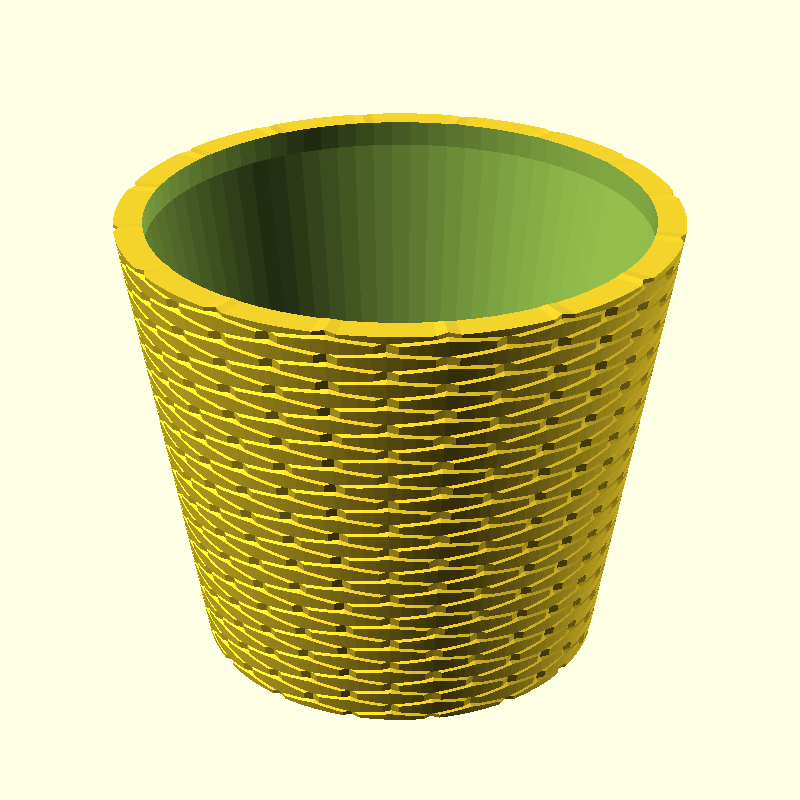
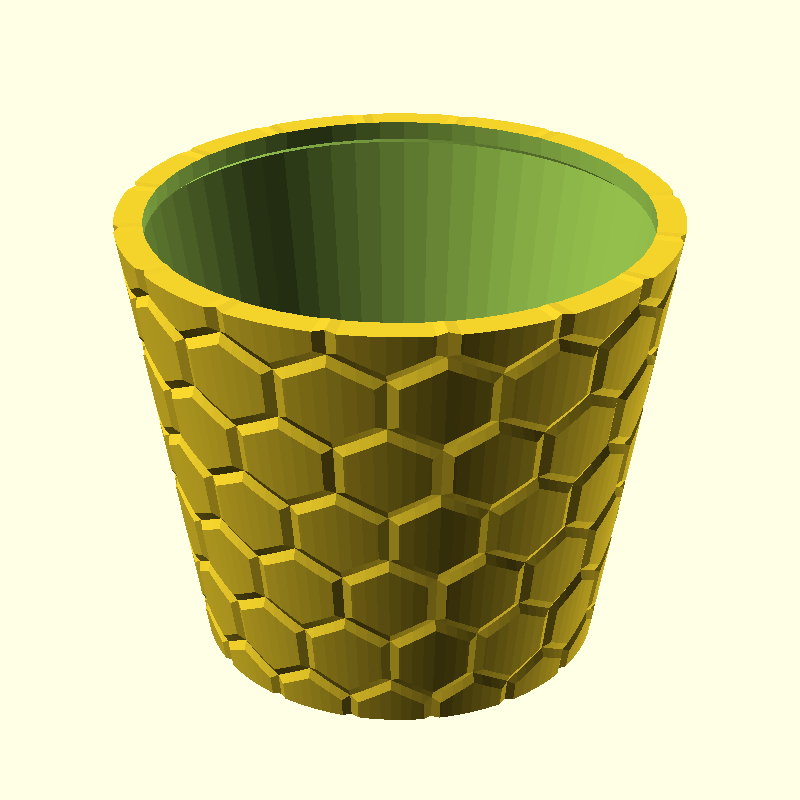
Regenerate gallery and update docs for the square-tile aspect fix
Re-renders every gallery image at the shipped smoothness=60 default
(render.sh's CU_FN was still hardcoded to the old 80) and with the new
geometry-derived vertical tile-repeat count. Rewrites the aspect-ratio
disclosures in README.md and docs/gallery.md to state the distortion is
fixed (residual ~0.87x-1.17x at the pot's actual top/bottom radii, down
from ~2.8-3.75x), measured directly from _square_tile_vertical_reps() at
shipped defaults. Removes the two now-fixed TODO.md backlog items.

Claude-Session: https://claude.ai/code/session_016CFVd1m5nG6TufCqmWBAbh

diff --git a/docs/gallery.md b/docs/gallery.md
@@ -35,15 +35,19 @@ See [README.md](../README.md) for what each parameter means.
 
 **These are square-tile close-ups, not pictures of a pot.** Each one is a
 `decorated_solid()` cylinder whose height equals its own circumference, so
-`tex_reps = [n, n]` lays down **square** tiles and every pattern is shown at its
-designed proportions. On the actual planter the same tiles come out
-**roughly 2.8–3.75× wider than tall** (it varies along the wall's taper, see
-below) — see [Full-Pot Examples](#full-pot-examples) below for what that does
-to them, and why these close-ups lead the page instead.
+the vertical repeat count `_square_tile_vertical_reps()` derives comes out
+equal to the horizontal one and every pattern is shown at its designed
+proportions. On the actual planter, tiles are only *exactly* square at the
+wall's mean radius — the wall is a cone, and the vertical repeat count is
+fixed for the whole wall while BOSL2 scales each texture strip to the local
+radius as it revolves. At shipped defaults this leaves a small residual: tiles
+run **roughly 0.87× wide-to-tall at the bottom rim to 1.17× at the top rim**
+— see [Full-Pot Examples](#full-pot-examples) below for what that residual
+taper looks like, and why these close-ups (free of it) lead the page instead.
 
 Settings shared by every image in this section: `r1 = r2 = 90mm`,
 `height = 565.5mm` (= 2πr), `pattern_repeat = 32` (so tiles are ~17.7mm square),
-`pattern_depth = 1.5` and `smoothness = 80` (both the shipped defaults when these images were rendered; `smoothness`'s default has since been lowered to 60, see README's CGAL note),
+`pattern_depth = 1.5` and `smoothness = 60` (the shipped defaults),
 `pattern_orientation = "vertical"`. Uniform across all of them, so the images
 are comparable with each other.
 
@@ -70,7 +74,7 @@ there is only one image.
 |---|
 | ![none](images/pattern-none-raised.png) |
 
-The faint vertical banding is the `smoothness = 80` facets of the cylinder
+The faint vertical banding is the `smoothness = 60` facets of the cylinder
 itself, not a pattern.
 
 ### ridges
@@ -95,11 +99,10 @@ grooves.
 
 Flat hexagonal panels (raised) divided by V-groove borders (recessed) — a
 honeycomb grid, same family as `diamonds` above. BOSL2's docs note the tile
-needs a `sqrt(3)`
-vertical scale for the V-groove width to be perfectly uniform on all six
-sides of each hexagon; `decorated_solid()` doesn't apply it, so the grooves
-here are slightly uneven (narrower on some sides than others) rather than
-outright wrong-shaped — a smaller version of the `cubes` gap below.
+needs a `sqrt(3)` vertical scale for the V-groove width to be uniform on all
+six sides of each hexagon; `_square_tile_vertical_reps()` applies it by
+folding the `sqrt(3)` factor into the vertical repeat count, so the hexagons
+here render regular rather than stretched.
 
 | Raised | Etched |
 |---|---|
@@ -155,20 +158,17 @@ the same bump pushed below the surface.
 
 **Aspect note:** BOSL2's own docs for the `"cubes"` texture say it needs an
 extra `sqrt(3)` vertical scale to render at its true isometric proportions
-(`lib/BOSL2/skin.scad`, the "cubes" texture example) — `decorated_solid()`
-doesn't apply that correction, so this close-up (like the actual pot) is
-slightly compressed vertically compared to a true cube. Everything above
-about this section's images being "at their designed proportions" is about
-the *pattern_repeat* aspect ratio (square vs. stretched tiles), not this
-per-texture correction, which is a separate, smaller, pre-existing gap.
+(`lib/BOSL2/skin.scad`, the "cubes" texture example). `_square_tile_vertical_reps()`
+applies that correction by folding the `sqrt(3)` factor into the vertical
+repeat count itself, so both the tile-squaring fix and this per-texture
+correction come from the same formula.
 
 ### tri_grid
 
 Flat triangular panels (raised) divided by V-groove borders (recessed) — the
 same groove-bordered-panel family as `diamonds`/`hex_grid`, just on a
-triangular grid instead of hexagonal. Same `sqrt(3)`-scale gap as `hex_grid`
-above:
-grooves are slightly uneven rather than perfectly uniform on all three sides.
+triangular grid instead of hexagonal. Same `sqrt(3)` correction as `hex_grid`
+and `cubes` above, applied the same way.
 
 | Raised | Etched |
 |---|---|
@@ -218,9 +218,8 @@ them is a uniform incised line.
 ## Full-Pot Examples
 
 The real assembled planter, rendered from `planter.scad` at its shipped
-defaults at the time (`pattern_repeat = 16`, `smoothness = 80`) with only
-`pattern_type` and `relief_mode` overridden. `smoothness`'s shipped default
-has since been lowered to 60, see README's CGAL note.
+defaults (`pattern_repeat = 16`, `smoothness = 60`) with only `pattern_type`
+and `relief_mode` overridden.
 
 | `hex_grid`, raised | `hex_grid`, etched |
 |---|---|
@@ -230,40 +229,32 @@ has since been lowered to 60, see README's CGAL note.
 |---|
 | ![pot, islamic_star raised](images/pot-islamic_star-raised.png) |
 
-**Known limitation — tiles are stretched roughly 2.8–3.75× wider than tall,
-and it's not even a fixed number.** `decorated_solid()` passes
-`tex_reps = [pattern_repeat, pattern_repeat]`, asking for the same number of
-repeats around the circumference as up the height regardless of the pot's
-proportions. Worse, the decorated wall is a cone, not a cylinder --
-`planter.scad`'s own peak-aware calculation puts its radius at ~61mm at the
-bottom growing to ~82.3mm at the top (not the insert's own radius) -- and
-BOSL2 scales each texture strip to the *local* radius as it revolves
-(`lib/BOSL2/skin.scad`'s `_textured_revolution()`), so the 16 tiles around
-the circumference are genuinely trapezoidal: about 24mm wide at the bottom,
-about 32mm wide at the top, against a fixed 8.6mm tile height (138mm wall /
-16 tiles) throughout. That's an aspect ratio of **2.8× at the bottom rim
-widening to 3.75× at the top rim**.
+**Fixed: tiles now come out approximately square.** `decorated_solid()` used
+to pass `tex_reps = [pattern_repeat, pattern_repeat]`, asking for the same
+number of repeats around the circumference as up the height regardless of the
+pot's proportions — on the default pot (~440mm circumference, ~138mm height)
+that made every tile ~3.2× wider than tall. `_square_tile_vertical_reps()`
+(`modules/decoration.scad`) now derives the vertical repeat count from the
+pot's real height and circumference instead, so tiles come out square at the
+wall's mean radius.
 
-This is visible, not theoretical. Compare the `hex_grid` pot above with
-[its close-up](#hex_grid) — the hexagons have flattened into wide ribbons. The
-`islamic_star` pot shows the worst case: the eight-point stars are smeared into
-horizontal bands and the motif is no longer recognisable at all. That is
-exactly why this page leads with the flat tile close-ups rather than full-pot
-renders.
+A small residual remains because the decorated wall is a cone, not a
+cylinder — `planter.scad`'s own peak-aware calculation puts its radius at
+~61mm at the bottom growing to ~82.3mm at the top, and BOSL2 scales each
+texture strip to the *local* radius as it revolves
+(`lib/BOSL2/skin.scad`'s `_textured_revolution()`), while a single vertical
+repeat count is fixed for the whole wall. At shipped defaults (`pattern_repeat
+= 16`) that leaves tiles running **roughly 0.87× wide-to-tall at the bottom
+rim to 1.17× at the top rim** — a small taper effect, not the ~2.8–3.75×
+distortion this page used to document here.
 
-How much it matters depends on the pattern. `ridges` is immune — vertical
-ribs have no vertical period to stretch. `bricks` barely notices, since bricks
-are meant to be wider than tall anyway. `hex_grid` above is clearly distorted
-but still legible as a hex grid. The large-motif interlocking patterns
-(`islamic_star`, `intertwine`, `teardrop`) are the ones that stop working.
-
-The only lever today is `pattern_repeat`: raising it shortens the tiles
-vertically, though it also multiplies them around the circumference, since one
-parameter drives both axes.
-
-This is pre-existing behaviour, not something this gallery changed, and it is
-not fixed: a proper fix means deriving the vertical repeat count from the pot's
-actual height-to-circumference ratio instead of reusing `pattern_repeat`.
+Compare the `hex_grid` pot above with [its close-up](#hex_grid) — the
+hexagons are recognizably regular now, not flattened into ribbons. The
+`islamic_star` pot likewise shows a clean, legible eight-point-star motif
+rather than a smeared band. That's also why this page can lead with the flat
+tile close-ups without them misrepresenting the full-pot look anymore — they
+were always the "designed proportions" reference, and the full pot is now
+close to matching them.
 
 ## Insert Presets
 
@@ -272,7 +263,7 @@ to a named size. All three renders use the same fixed camera (no `--viewall`),
 so the sizes are directly comparable rather than each normalised to fill the
 frame. Everything else is at defaults, including `pattern_type = "ridges"` --
 at pot scale, its 16 tiles are barely distinguishable from the cylinder's own
-80-facet smoothness, so these pots read as plain. These
+60-facet smoothness, so these pots read as plain. These
 sections are about silhouette and size, not decoration; see
 [Pattern Comparison](#pattern-comparison) for what the patterns themselves
 look like.

diff --git a/README.md b/README.md
@@ -78,7 +78,7 @@ The 3 named presets:
 | `pattern_orientation` | Direction: `"vertical"` or `"horizontal"` | `"vertical"` |
 | `relief_mode` | Relief type: `"raised"` (pattern stands proud of the wall) or `"etched"` (pattern is cut into the wall) | `"raised"` |
 | `pattern_depth` | Depth of pattern relief (mm) | 1.5 |
-| `pattern_repeat` | Number of pattern tiles around the circumference, and also vertically for tileable patterns | 16 |
+| `pattern_repeat` | Number of pattern tiles around the circumference; the vertical repeat count is derived automatically from the pot's geometry so tiles come out approximately square (see "Decoration" below) | 16 |
 
 ### Base
 
@@ -146,9 +146,9 @@ Which parameter values trip this depends on `pattern_repeat` **and** `smoothness
 
 `"intertwine"` is by far the most expensive of the three to render: roughly 2-3 minutes and a ~25MB STL at the shipped defaults on a modern laptop, versus well under a minute for `"tumbling_cubes"`/`"islamic_star"`. A silent console for a couple of minutes on `"intertwine"` is normal — it is not a hang, and it is not the CGAL failure above (which happens quickly, not after a minute or more).
 
-Adjust `pattern_orientation` to switch between vertical and horizontal layouts, and `pattern_repeat` to change how many tiles wrap around the circumference — the same value also sets the vertical repeat count for tileable patterns, so raising it makes tiles both more numerous around the pot and shorter top-to-bottom.
+Adjust `pattern_orientation` to switch between vertical and horizontal layouts, and `pattern_repeat` to set how many tiles wrap around the circumference. The vertical repeat count is no longer the same number: `decorated_solid()` derives it automatically (`_square_tile_vertical_reps()` in `modules/decoration.scad`) from the pot's actual height and circumference, so tiles come out approximately square regardless of `pattern_repeat` — raising `pattern_repeat` still multiplies the tiles horizontally, but the vertical count adjusts to match rather than tracking it 1:1.
 
-Note: tiles come out **roughly 2.8–3.75× wider than tall** on the pot, and it's not a fixed number: `tex_reps` is set to `[pattern_repeat, pattern_repeat]`, asking for the same repeat count around the circumference as up the height regardless of the pot's proportions, and because the decorated wall is a cone (BOSL2 scales each texture strip to the local radius, per `lib/BOSL2/skin.scad`'s `_textured_revolution()`), the tiles themselves are trapezoidal, not uniform rectangles — narrower at the bottom (radius ~61mm) than the top (radius ~82.3mm, `planter.scad`'s own peak-aware cone calculation). At defaults that's roughly 24mm wide at the bottom rising to roughly 32mm at the top, against an 8.6mm tile height (138mm wall / 16 tiles). `"ridges"` and `"bricks"` are unaffected in practice; large-motif patterns like `"islamic_star"` are squashed enough to lose the motif. Raising `pattern_repeat` shortens the tiles vertically (and multiplies them horizontally). See [the gallery's full-pot section](docs/gallery.md#full-pot-examples) for side-by-side evidence.
+Note: tiles are only *exactly* square at the pot's mean radius, since the decorated wall is a cone and BOSL2 scales each texture strip to the local radius (`lib/BOSL2/skin.scad`'s `_textured_revolution()`) while the vertical repeat count is fixed for the whole wall. At shipped defaults (`pattern_repeat=16`, bottom radius ~61mm, top radius ~82.3mm, 138mm wall height) this leaves a small residual: tiles run about **0.87× wide-to-tall at the bottom rim to 1.17× at the top rim** — not the ~2.8–3.75× distortion of the old `tex_reps = [pattern_repeat, pattern_repeat]` behavior. See [the gallery's full-pot section](docs/gallery.md#full-pot-examples) for side-by-side evidence.
 
 Note: enabling decoration changes the pot's outer silhouette slightly. BOSL2's textured `cyl()` only supports a straight r1/r2 cone, so the decorated body is approximated as a straight cone through the cavity's peak radius rather than following the cavity's exact ledge/shoulder profile — at defaults this means the rim wall goes from ~3mm (plain `wall_thickness`) to ~7mm. This is a deliberate, documented tradeoff, not a bug.
 

diff --git a/TODO.md b/TODO.md
@@ -1,0 +1,9 @@
+* [ ] Preset insert sizes: 100x85 (75mm bottom); 130x120 (100mm bottom); 180x160 (125mm bottom)
+* [ ] Add interlocking teardrop (from BOLS2)
+* [ ] I like the way shapes are raised. I don't know what etched does. I wanted it to have an engraved look - like it was etched into stone or glass.
+* [ ] I would love to include interlocking geometric patterns. I saved some examples to the Desktop. More: https://www.magnific.com/free-photos-vectors/geometric-interlocking-pattern
+* [ ] Include example images in the README
+* [ ] More interlocking geometric pattern ideas for later (planar Euclidean uniform tilings, not spherical/hyperbolic) -- see https://en.wikipedia.org/wiki/List_of_Euclidean_uniform_tilings, https://en.wikipedia.org/wiki/Uniform_tiling, https://en.wikipedia.org/wiki/List_of_tessellations.
+  - The 11 Euclidean uniform tilings exhaust the edge-to-edge regular/semiregular options: triangular, square, hexagonal, truncated square, snub square, trihexagonal, truncated hexagonal, rhombitrihexagonal, truncated trihexagonal, snub trihexagonal, elongated triangular.
+  - Their duals add visually distinct candidates, especially good fits for the Islamic/Escher interlocking aesthetic: Cairo pentagonal tiling ("V3^2.4.3.4", distinctive interlocking pentagons -- probably the most visually striking one), Rhombille tiling ("V3.6.3.6", diamond/rhombus motif), Tetrakis square tiling ("V4.8^2"), Kisrhombille tiling ("V4.6.12"), Prismatic pentagonal tiling ("V3^3.4^2"), Floret pentagonal tiling ("V3^4.6", pinwheel-like pentagon clusters), Deltoidal trihexagonal tiling ("V3.4.6.4", kite-shaped motif), Triakis triangular tiling ("V3.12^2").
+  - (Excluded on purpose: the apeirogonal hosohedron/order-2 apeirogonal tiling and their prism/antiprism/dual variants from the same Wikipedia list -- these involve infinite-sided polygons and aren't practical decorative motifs for a finite tile.)
